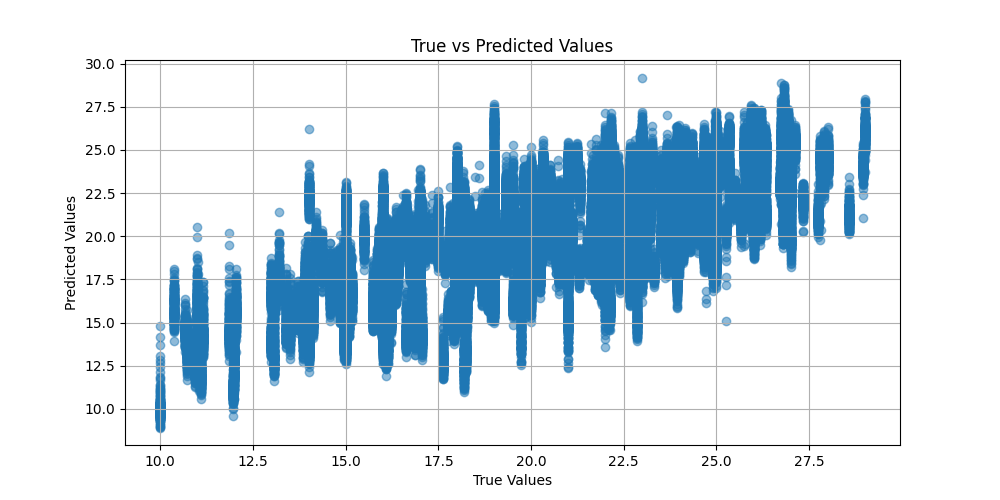
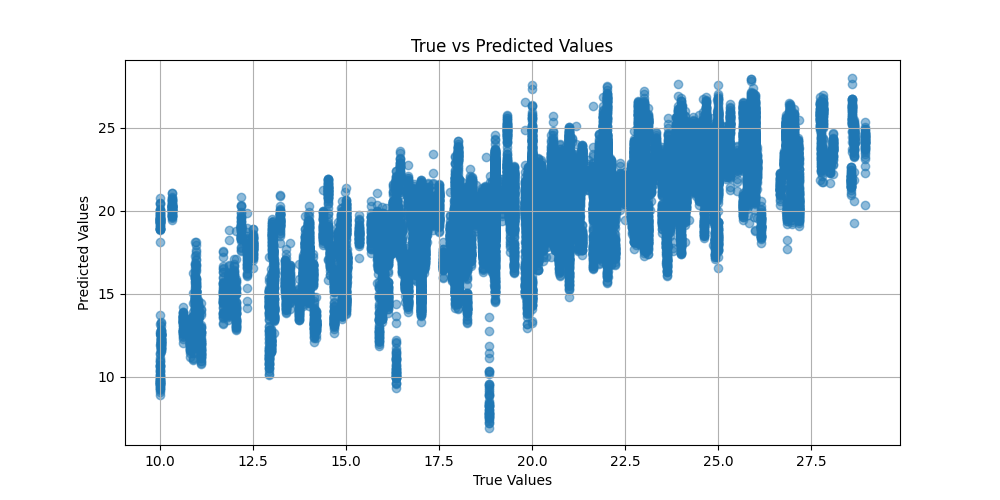
cross validation

diff --git a/hyp_tune.py b/hyp_tune.py
@@ -112,27 +112,31 @@ def objective(trial):
     batch_size = trial.suggest_categorical("batch_size", [16, 32, 64])
     hidden_dim1 = trial.suggest_categorical("hidden_dim1", [256, 512, 128])
     hidden_dim2 = trial.suggest_categorical("hidden_dim2", [128, 256, 64])
-    train_data_list, test_data_list = data_loading()
+    fold_data_lists = data_loading()
+    fold_val_losses = []
 
-    # Create data loaders
-    train_loader = DataLoader(train_data_list, batch_size=batch_size, shuffle=True)
-    test_loader = DataLoader(test_data_list, batch_size=batch_size, shuffle=False)
-    num_epochs = 50
-    # Run the training and validation process
-    best_val_loss = run_training_and_evaluation(
-        train_loader, test_loader,
-        hidden_dim1, hidden_dim2,
-        num_epochs, lr, dropout_rate
-    )
+    for train_data, test_data in fold_data_lists:
+        train_loader = DataLoader(train_data, batch_size=batch_size, shuffle=True)
+        test_loader = DataLoader(test_data, batch_size=batch_size, shuffle=False)
 
-    return best_val_loss
+        # Run the training and validation process for each fold
+        best_val_loss = run_training_and_evaluation(
+            train_loader, test_loader,
+            hidden_dim1, hidden_dim2,
+            num_epochs=50, lr=lr, dropout_rate=dropout_rate
+        )
+        fold_val_losses.append(best_val_loss)
 
+    # Average the best validation loss across all folds
+    avg_val_loss = sum(fold_val_losses) / len(fold_val_losses)
+    
+    return avg_val_loss
 
 def main():
     # Define hyperparameter grid
     lrs = [0.001, 0.002, 0.005]
     dropout_rates = [0.3, 0.45, 0.5, 0.55]
-    batch_sizes = [16, 32, 64]
+    batch_sizes = [32, 64]
     hidden_dims = [(256, 128), (512, 256), (128, 64)]
     num_epochs = 200  # You might want to reduce this for quicker iterations
     train_data_list, test_data_list = data_loading()
@@ -169,6 +173,19 @@ def main():
                     print(f"Configuration {counter} of {total_runs} completed: Best Val Loss: {best_val_loss}")
 
 if __name__ == "__main__":
-    main()
-    # study = optuna.create_study(direction="minimize", study_name="Hyperparameter Tuning")
-    # study.optimize(objective, n_trials=100) 
+    # Ensure that Optuna reuses the study if it exists, otherwise create a new one
+    try:
+        study = optuna.load_study(
+            study_name="Hyperparameter Tuning", 
+            storage="sqlite:///hyptune.db"
+        )
+    except KeyError:
+        # If the study does not exist, create a new one
+        study = optuna.create_study(
+            direction="minimize", 
+            study_name="Hyperparameter Tuning", 
+            storage="sqlite:///hyptune.db",
+            load_if_exists=True
+        )
+
+    study.optimize(objective, n_trials=100)

diff --git a/gnn.py b/gnn.py
@@ -9,6 +9,7 @@ import matplotlib.pyplot as plt
 from scipy.sparse import csr_matrix, save_npz, load_npz
 from sklearn.model_selection import train_test_split
 from enum import Enum
+from sklearn.model_selection import KFold
 
 from tqdm import tqdm
 import torch
@@ -195,10 +196,17 @@ def data_loading():
             data_object = Data(x=x, edge_index=edge_index, edge_attr=edge_attr, y=y)
             data_list.append(data_object)
         return data_list
-    train_data_list = generate_data_list(train_indices, adjacency_matrices, node_feature_matrices, edge_sequence_list, valid_difficulties)
-    test_data_list = generate_data_list(test_indices, adjacency_matrices, node_feature_matrices, edge_sequence_list, valid_difficulties)
-    return train_data_list, test_data_list
-
+    
+    kf = KFold(n_splits=5, shuffle=True, random_state=1)
+    fold_data_lists = []
+    
+    for train_idx, test_idx in kf.split(indices):
+        train_indices = [indices[i] for i in train_idx if i in valid_indices]
+        test_indices = [indices[i] for i in test_idx if i in valid_indices]
+        train_data_list = generate_data_list(train_indices, adjacency_matrices, node_feature_matrices, edge_sequence_list, valid_difficulties)
+        test_data_list = generate_data_list(test_indices, adjacency_matrices, node_feature_matrices, edge_sequence_list, valid_difficulties)
+        fold_data_lists.append((train_data_list, test_data_list))
+    return fold_data_lists 
 
 def compare_edge_sequence_with_edge_index(edge_sequence_tensor, edge_index):
     edge_mapping = {}
